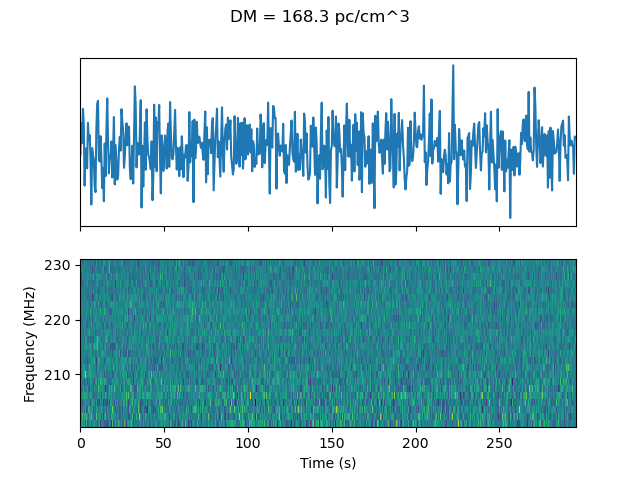
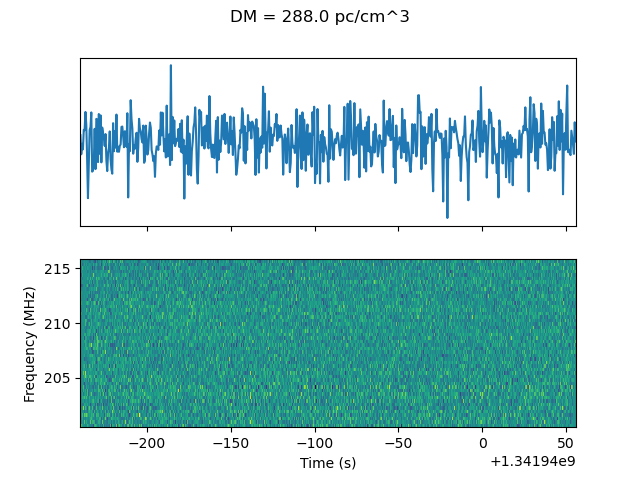
Added more MWA dedispersed spectra

diff --git a/dynspec/dedisperse_dynspec.py b/dynspec/dedisperse_dynspec.py
@@ -199,6 +199,7 @@ def main(args):
 
     # Plot the dynamic spectrum at the given/best DM
     if args.dynspec_image is not None:
+        dynspec.t = dynspec.get_time_at_infinite_frequency()
         fig, axs = plt.subplots(nrows=2, ncols=1, sharex=True)
         dynspec.plot_lightcurve(axs[0])
         dynspec.plot(axs[1])
